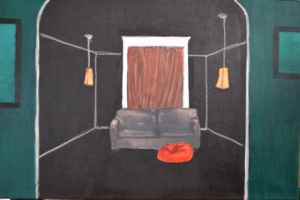
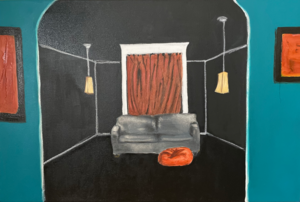
new stuff

diff --git a/pictures.html b/pictures.html
@@ -37,8 +37,18 @@
         </a>
       </div>
       <div class="thumb-box">
+        <a href="movie.html">
+          <img src="assets/small-movie.png">
+        </a>
+      </div>
+      <div class="thumb-box">
         <a href="plant.html">
           <img src="assets/small-plant.png">
+        </a>
+      </div>
+      <div class="thumb-box">
+        <a href="lamp.html">
+          <img src="assets/small-lamp.png">
         </a>
       </div>
       <div class="thumb-box">
@@ -79,10 +89,10 @@
   <div class="picture-container">
     <div class="thumb-row">
       <div class="thumb-box">
-        <img src="assets/small-movie.png">
+        <img src="assets/small-inpro1.png">
       </div>
       <div class="thumb-box">
-        <img src="assets/small-lamp.png">
+        <img src="assets/small-inpro2.png">
       </div>
       <div class="thumb-box">
         <img src="assets/small-face.png">

diff --git a/site/pictures.html b/site/pictures.html
@@ -37,8 +37,18 @@
         </a>
       </div>
       <div class="thumb-box">
+        <a href="movie.html">
+          <img src="assets/small-movie.png">
+        </a>
+      </div>
+      <div class="thumb-box">
         <a href="plant.html">
           <img src="assets/small-plant.png">
+        </a>
+      </div>
+      <div class="thumb-box">
+        <a href="lamp.html">
+          <img src="assets/small-lamp.png">
         </a>
       </div>
       <div class="thumb-box">
@@ -79,10 +89,10 @@
   <div class="picture-container">
     <div class="thumb-row">
       <div class="thumb-box">
-        <img src="assets/small-movie.png">
+        <img src="assets/small-inpro1.png">
       </div>
       <div class="thumb-box">
-        <img src="assets/small-lamp.png">
+        <img src="assets/small-inpro2.png">
       </div>
       <div class="thumb-box">
         <img src="assets/small-face.png">

diff --git a/picture_pages/movie.html b/picture_pages/movie.html
@@ -13,14 +13,14 @@
   <div class="picture-page-container">
     <div class="picture-page-text">
       <div class="picture-page-caption">
-        The whole fam damily.
+        The deep room.
       </div>
       <div class="picture-page-nav">
         <a href="pictures.html">pictures</a>
       </div>
     </div>
     <div class="picture-page-picture">
-      <img src="assets/fam.png">
+      <img src="assets/movie.png">
     </div>
   </div>
 </body>

diff --git a/site/movie.html b/site/movie.html
@@ -13,14 +13,14 @@
   <div class="picture-page-container">
     <div class="picture-page-text">
       <div class="picture-page-caption">
-        The whole fam damily.
+        The deep room.
       </div>
       <div class="picture-page-nav">
         <a href="pictures.html">pictures</a>
       </div>
     </div>
     <div class="picture-page-picture">
-      <img src="assets/fam.png">
+      <img src="assets/movie.png">
     </div>
   </div>
 </body>
